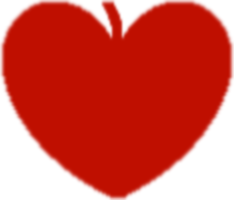
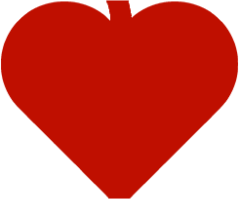
Fixed ofsets issue by using size relative offsets instead of fixed ones, if /change still have to edit the Y offset manually tho

Changed region(s): [[0.0, 0.0, 1.0, 1.0]]

diff --git a/ship/ship.py b/ship/ship.py
@@ -72,8 +72,8 @@ class Ship:
         tmpl.paste(author_avatar, (0, -10))                                 #Paste Author avatar on the template
         tmpl.paste(user_avatar, (0, 266))                                   #Paste User avatar on the template
         offset = (100 - rate) * 2                                           #calculate offset from rate
-        fill = fill.crop((0, offset, 232, 200))                             #Crop fill image to the good size
-        blank.paste(fill, (278, 140 + offset))                              #Paste fill image into the blank
+        fill = fill.crop((0, offset, fill.width, fill.height))              #Crop fill image to the good size
+        blank.paste(fill, (tmpl.width - fill.width - 1, 154 + offset))      #Paste fill image into the blank
         draw.text((280, 25), str(author), font=fnt, fill=red)               #Write author Name
         draw.text((280, 450), str(user), font=fnt, fill=red)                #Write user Name
         fnt = ImageFont.truetype("data/ship/font.ttf", 80)                  #Resize font
